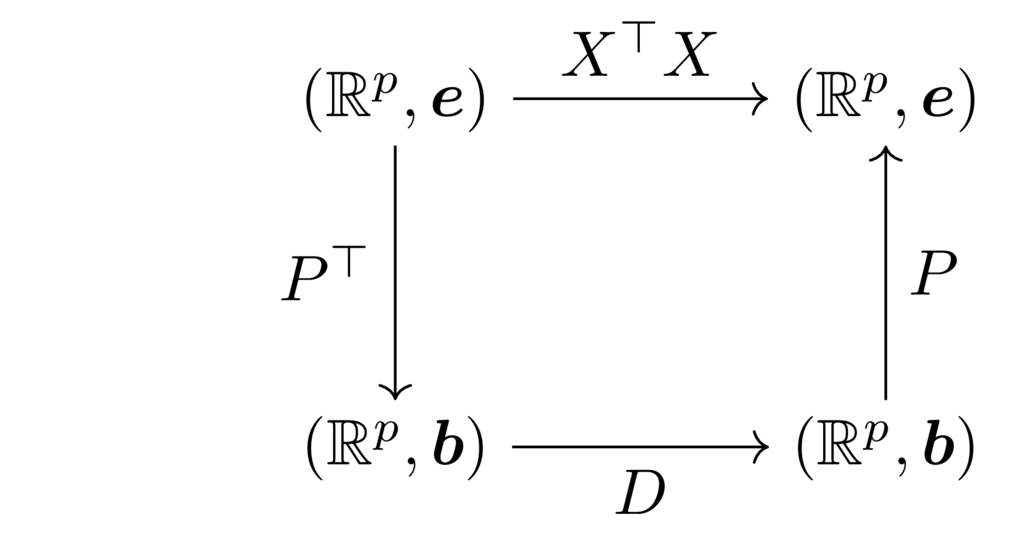
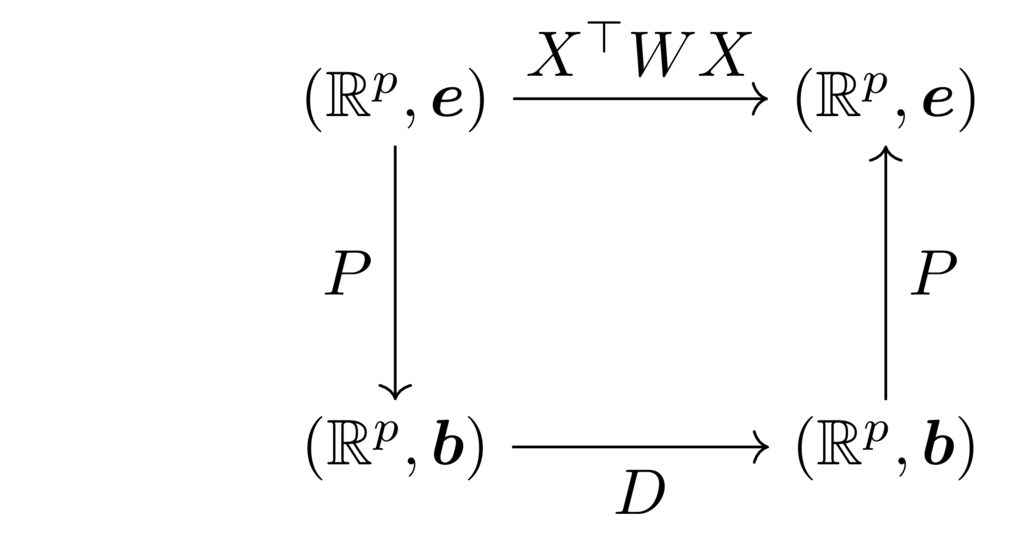
Add individual representation

Changed region(s): [[0.5, 0.0299, 0.75, 0.1495], [0.2812, 0.4486, 0.375, 0.5682]]

diff --git a/change_baseXtX_acp.tex b/change_baseXtX_acp.tex
@@ -1,0 +1,31 @@
+\documentclass[tikz]{standalone}
+%\usetikzlibrary{...}% tikz package already loaded by 'tikz' option
+\usepackage{amsmath,amssymb}  % Pour les symboles mathématiques
+\usepackage{lmodern}          % Utilisation de la police lmodern pour meilleure compatibilité SVG
+\usetikzlibrary{matrix,positioning}
+\usetikzlibrary{arrows.meta}
+\usetikzlibrary{calc}
+\begin{document}
+
+\begin{tikzpicture}
+  \matrix (m) [matrix of math nodes, row sep=2em, column sep=4em, text height=1.5ex, text depth=0.25ex]
+  {
+  	&  & (\mathbb{R}^n, \boldsymbol{f}) & \\
+    & (\mathbb{R}^p, \boldsymbol{e})  & &(\mathbb{R}^p, \boldsymbol{e}) \\
+    & & &\\
+    & (\mathbb{R}^p, \boldsymbol{b}) & &(\mathbb{R}^p, \boldsymbol{b}) \\
+  };
+
+  % Flèches entre les cellules
+  \path[->] (m-2-2) edge node[above] {$X^\top W X$} (m-2-4);
+  \path[->] (m-2-2) edge node[left] {$P^\top$} (m-4-2);
+  \path[->] (m-4-4) edge node[right] {$P$} (m-2-4);
+  \path[->] (m-4-2) edge node[below] {$D$} (m-4-4);  
+  \path[->] (m-2-2) edge node[above left] {$X$} (m-1-3);
+  \path[->] (m-1-3) edge node[above right] {$X^\top W$} (m-2-4);
+  \path[->, color=orange] (m-4-2) edge node[below right] {$C$} (m-1-3);
+  \path[->, color=orange] ([xshift=3pt]m-4-2.north) edge node[right] {$P$} ([xshift=3pt]m-2-2.south);
+   
+\end{tikzpicture}
+
+\end{document}

diff --git a/change_baseXtX.tex b/change_baseXtX.tex
@@ -17,30 +17,12 @@
   };
 
   % Flèches entre les cellules
-  \path[->] (m-1-2) edge node[above] {$X^\top X$} (m-1-3);
-  \path[->] (m-1-2) edge node[left] {$P^\top$} (m-3-2);
+  \path[->] (m-1-2) edge node[above] {$X^\top W X$} (m-1-3);
+  \path[->] (m-1-2) edge node[left] {$P$} (m-3-2);
   \path[->] (m-3-3) edge node[right] {$P$} (m-1-3);
   \path[->] (m-3-2) edge node[below] {$D$} (m-3-3);
   
+  
 \end{tikzpicture}
 
-% 
-% \begin{tikzpicture}% Example:
-%   \matrix (m) [matrix of math nodes, row sep=2em, column sep=4em, text height=1.5ex, text depth=0.25ex]
-%   {
-%     \mathbf{X} :& (\mathbb{R}^d, \boldsymbol{e})  & (\mathbb{R}^n, \boldsymbol{e}) \\
-%     & & \\
-%     & (\mathbb{R}^d, \boldsymbol{v}) & (\mathbb{R}^n, \boldsymbol{u}) \\
-%   };
-% 
-%   % Arrows
-%   \path[->] (m-1-2) edge node[above] {$V^\top$} (m-3-1)
-%             % (m-2-2) edge node[above] {$D$} (m-2-3)
-%             % (m-2-3) edge node[above] {$U$} (m-2-4);
-% 
-%   % Labels for spaces
-%   \node[above of=m-1-2, node distance=1.5em] {Input Space $\mathbb{R}^d$};
-%   \node[above of=m-1-3, node distance=1.5em] {Output Space $\mathbb{R}^n$};
-% 
-% \end{tikzpicture}
 \end{document}
